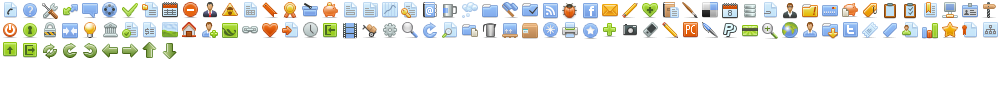
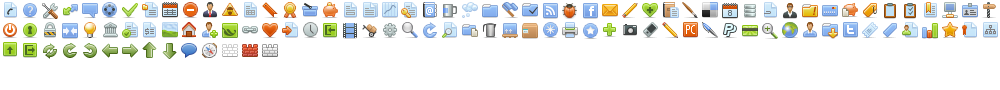
Completed contacts page completely

Changed region(s): [[0.155, 0.4667, 0.279, 0.6444]]

diff --git a/files/templates/pages/contacts.html b/files/templates/pages/contacts.html
@@ -10,20 +10,35 @@
 			<div class="head row-fluid">
 				<div class="span12">Departments</div>
 			</div>
-			<div class="template dept_template row-fluid" style="display : none;">
+			<div class="template dept_template main_template row-fluid" style="display : none;">
 				<div class="span10 info">
 					<div class="span12 clickable"><span class="name"></span></div>
 					<div class="span12 open">
-						<a href="mailto:"><i class="icon-message"> </i></a> : <input class="email" readonly value="Loading...">
+						<a href="mailto:" class="email_link"><i class="icon-message"> </i></a>
+						 : 
+						<input class="email" readonly value="Loading...">
 					</div>
 					<div class="span12 open">
-						<i class="icon-phone"> </i> : <input class="mobile_number" readonly value="Loading...">
+						<i class="icon-phone"> </i>
+						 : 
+						<input class="mobile_number" readonly value="Loading...">
 					</div>
 					<div class="span12 open">
-						<i class="icon-home"></i> : <input class="summer_mobile" readonly value="Loading...">
+						<i class="icon-home"></i> : <input class="summer_number" readonly value="Loading...">
+					</div>
+					<div class="span12 open center">
+						<a href="" class="span4 center wall_link">
+							<i class="icon-wall"></i>
+						</a>
+						<a href="" class="span4 center profile_link">
+							<i class="icon-profile-black"></i>
+						</a>
+						<a href="" class="span4 center docs_link">
+							<i class="icon-folder"></i>
+						</a>
 					</div>
 				</div>
-				<div class="span2 next">
+				<div class="span2 next clickable">
 					<i class="icon-right pull-right opacity_half opacity_full_hover"></i>
 				</div>
 			</div>
@@ -33,41 +48,11 @@
 				<div class="span12">Sub Depts</div>
 			</div>
 			<div class="template subdept_template row-fluid" style="display : none;">
-				<div class="span10 info">
-					<div class="span12 clickable"><span class="name"></span></div>
-					<div class="span12 open">
-						<a href="mailto:"><i class="icon-message"> </i></a> : <input class="email" readonly value="Loading...">
-					</div>
-					<div class="span12 open">
-						<i class="icon-phone"> </i> : <input class="mobile_number" readonly value="Loading...">
-					</div>
-					<div class="span12 open">
-						<i class="icon-home"></i> : <input class="summer_mobile" readonly value="Loading...">
-					</div>
-				</div>
-				<div class="span2 next">
-					<i class="icon-right pull-right opacity_half opacity_full_hover"></i>
-				</div>
 			</div>
     		<div class="head row-fluid">
 				<div class="span12">Users</div>
 			</div>
 			<div class="template user_template row-fluid" style="display : none;">
-				<div class="span10 info">
-					<div class="span12 clickable"><span class="name"></span></div>
-					<div class="span12 open">
-						<a href="mailto:"><i class="icon-message"> </i></a> : <input class="email" readonly value="Loading...">
-					</div>
-					<div class="span12 open">
-						<i class="icon-phone"> </i> : <input class="mobile_number" readonly value="Loading...">
-					</div>
-					<div class="span12 open">
-						<i class="icon-home"></i> : <input class="summer_mobile" readonly value="Loading...">
-					</div>
-				</div>
-				<div class="span2 next">
-					<i class="icon-right pull-right opacity_half opacity_full_hover"></i>
-				</div>
 			</div>
 		</div>
 
@@ -76,21 +61,6 @@
 				<div class="span12">Users</div>
 			</div>
 			<div class="template user_template row-fluid" style="display : none;">
-				<div class="span10 info">
-					<div class="span12 clickable"><span class="name"></span></div>
-					<div class="span12 open">
-						<a href="mailto:"><i class="icon-message"> </i></a> : <input class="email" readonly value="Loading...">
-					</div>
-					<div class="span12 open">
-						<i class="icon-phone"> </i> : <input class="mobile_number" readonly value="Loading...">
-					</div>
-					<div class="span12 open">
-						<i class="icon-home"></i> : <input class="summer_mobile" readonly value="Loading...">
-					</div>
-				</div>
-				<div class="span2">
-					<i class="icon-right pull-right opacity_half opacity_full_hover"></i>
-				</div>
 			</div>
 		</div>
     </div>
@@ -182,8 +152,16 @@
 <script type='text/javascript'>
 	user_structure = null
 
+	function set_element_info(el, local_val) {
+		var $el = $(el)
+		$el.find(".mobile_number").val(local_val["summer_number"])
+		$el.find(".summer_number").val(local_val["summer_number"])
+		
+		$el.find(".email").val(local_val["email"])
+		$el.find("a.email_link").prop("href", "mailto:" + local_val["email"])
+	}
 	function create_contact_element(i, val, $template) {
-		$el = $template.clone().removeClass("template")
+		var $el = $(".table .template.main_template").first().clone().removeClass("template")
 			.removeClass("dept_template")
 			.removeClass("subdept_template")
 			.removeClass("user_template")
@@ -199,26 +177,45 @@
 
 		$el.find(".name").text(name)
 		
-		if ( val.hasOwnProperty("email") && val["email"].indexOf("@") != -1 ) {
-			$el.find(".email").text(val["email"]).val(val["email"])
-			$el.find("a").prop("href", "mailto:" + val["email"])
+		val["id"] = i
+		if ( val.hasOwnProperty("subdepts") ) { // has to be first. As dept can have users
+			val["type"] = "subdept"
+		} else if ( val.hasOwnProperty("users")) {
+			val["type"] = "dept"
 		} else {
-			$el.find(".email").closest("div").remove()
+			val["type"] = "user"
 		}
 
-		/*if ( val["mobile_number"] ) {
-			Dajaxice.users.get_phone( function(data) {
-				$el.find(".mobile_number").text(data["mobile_number"]).val(data["summer_mobile"])
-				val["mobile_number"] = data["mobile_number"]
-				$el.find(".summer_mobile").text(data["summer_mobile"]).val(data["summer_mobile"])
-				val["summer_mobile"] = data["summer_mobile"]
-			}, {"tag" : val["small"] + "_" + val["id"]})
+		if ( val.hasOwnProperty("email") ) {
+			if ( val["type"] != "user" ) {
+				$el.find(".email").closest("div").remove()
+				$el.find(".mobile_number").closest("div").remove()
+				$el.find(".summer_number").closest("div").remove()
+			} else {
+				set_element_info($el, val)
+			}
 		} else {
-			$el.find(".mobile_number").text("Loading...").val("Loading...")
-			$el.find(".summer_mobile").text("Loading...").val("Loading...")
-		}*/
+			if ( val.hasOwnProperty("subdepts") || val.hasOwnProperty("users") )  {
+				$el.find(".email").closest("div").remove()
+				$el.find(".mobile_number").closest("div").remove()
+				$el.find(".summer_number").closest("div").remove()
+			} else {
+				Dajaxice.apps.users.get_contact( function(data) {
+					var local_val = val
+					local_val["email"] = data["email"]
+					local_val["summer_number"] = data["summer_number"]
+					local_val["mobile_number"] = data["mobile_number"]
+					set_element_info($el, local_val)
+				}, {"id" : i})
+			}
+		}
 		
+		$el.find(".wall_link").prop("href", "/wall/" + val["type"] + "/" + val["id"])
+		$el.find(".profile_link").prop("href", "/profile/" + val["type"] + "/" + val["id"])
+		$el.find(".docs_link").prop("href", "javascript:alert('not implemented')")
+
 		$el.insertBefore($template)
+		bind_show_info($el)
 		$el.show(750)
 	}
 	function remove_contact_element(i, type) {
@@ -239,8 +236,11 @@
 			})
 		}
 	}
-	function bind_show_info() {
-		$(".table .clickable").unbind("click").bind("click", function() {
+	function bind_show_info($elems) {
+		if ( ! $elems.length ) {
+			$elems = $(".table .row-fluid")
+		}
+		$elems.bind("click", function() {
 			$el = $(this).closest(".row-fluid")
 			
 			if ( $el.hasClass("is_open") ) {
@@ -269,13 +269,12 @@
 
 			$el.data("type", "dept")
 		})
-		setTimeout(bind_show_info, 100)
 	}
 	function show_subdepts(list, $template) {
 		$.each( list, function(i, val) {
 			create_contact_element(i, val, $template)
 			$el.data("type", "subdept")
-			$el.find(".next").click(function() {
+			$el.find(".clickable").click(function() {
 				var $el = $(this)
 				
 				focus_table("users")
@@ -294,21 +293,19 @@
 			})
 
 		})
-		setTimeout(bind_show_info, 100)
 	}
 	function show_users(list, $template) {
 		$.each( list, function(i, val) {
 			create_contact_element(i, val, $template)
 			$el.data("type", "user")
 		})
-		setTimeout(bind_show_info, 100)
 	}
 	function populate_contacts() {
 		$dept_el_template = $(".table_depts .row-fluid.template.dept_template")
 		
 		show_depts(user_structure, $dept_el_template)
 
-		$(".table_depts .next").click(function() {
+		$(".table_depts .clickable").click(function() {
 			var $el = $(this)
 			focus_table("subdepts")
 			$(".table_depts .row-fluid").removeClass("active")
@@ -316,6 +313,7 @@
 			remove_contact_element("subdepts")
 
 			show_subdepts(user_structure[$el.closest(".row-fluid").data("id")]["subdepts"], $(".table_subdepts .row-fluid.template.subdept_template"))
+			
 			show_users(user_structure[$el.closest(".row-fluid").data("id")]["users"], $(".table_subdepts .row-fluid.template.user_template"))
 			remove_contact_element("users")			
 		})

diff --git a/files/static/css/icons-color.css b/files/static/css/icons-color.css
@@ -361,3 +361,19 @@
 .icon-down {
   background-position: -162px -42px;
 }
+.icon-text-bubble {
+  background-position: -182px -42px;
+}
+.icon-compass {
+  background-position: -202px -42px;
+}
+.icon-wall-white {
+  background-position: -222px -42px;
+}
+.icon-wall-red {
+  background-position: -242px -42px;
+}
+.icon-wall {
+  background-position: -262px -42px;
+}
+

diff --git a/apps/users/ajax.py b/apps/users/ajax.py
@@ -6,6 +6,11 @@ from dajax.core import Dajax
 from django.template import RequestContext
 from django.template.loader import render_to_string
 
+from django.contrib.auth.models import User
+from configs import settings
+from apps.users.models import Dept, Subdept, ERPProfile
+from apps.walls.models import Wall, Post, Comment
+
 from apps.walls.utils import get_tag_object
 
 # Decorators
@@ -31,13 +36,25 @@ def hello(request):
     return json.dumps({'message': 'hello'})
 
 @dajaxice_register
-def get_phone(request, id, tag):
+def get_contact(request, id):
     """
-        Used for testing Dajaxice
+        Sends contact information about the id
     """
-    obj = get_tag_object(tag)
-    local_context = {
-    	"mobile_number" : obj.profile.mobile_number,
-    	"summer_number" : obj.erp_profile.summer_number,
-    }
+    obj = User.objects.get(id=id)
+    if isinstance(obj, User):
+        obj_profile = obj.profile
+        obj_erp_profile = obj.erp_profile
+        local_context = {
+            "id" : obj.id,
+            "email" : obj.email,
+	    	"mobile_number" : obj_profile.mobile_number,
+	    	"summer_number" : obj_erp_profile.summer_number,
+        }
+    else:
+    	local_context = {
+            "id" : "",
+            "mobile_number" : "",
+            "summer_number" : "",
+            "email" : "",
+        }
     return json.dumps(local_context)

diff --git a/misc/management/commands/jsonify_data.py b/misc/management/commands/jsonify_data.py
@@ -71,13 +71,13 @@ class Command(BaseCommand):
             } 
             for i in all_subdept_list
         }
-        print id_dept_structure
+
         for i in all_user_list:
             temp_user = {
                 #"id" : i["id"],
                 "first_name" : i["first_name"],
                 "last_name" : i["last_name"],
-                "email" : i["email"],
+                # "email" : i["email"],
             }
             if "coord_relations" in i.keys():
                 for j in i["coord_relations"]:
